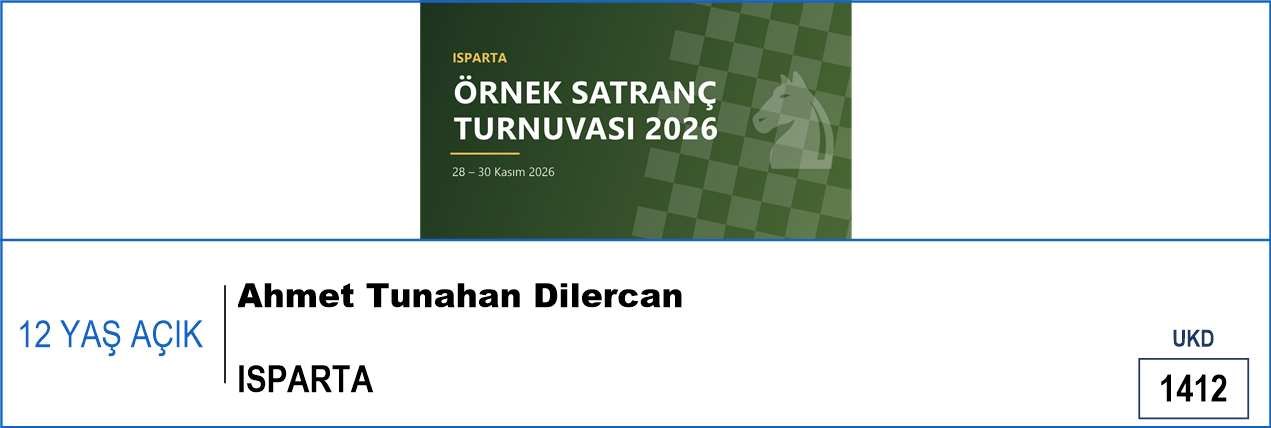
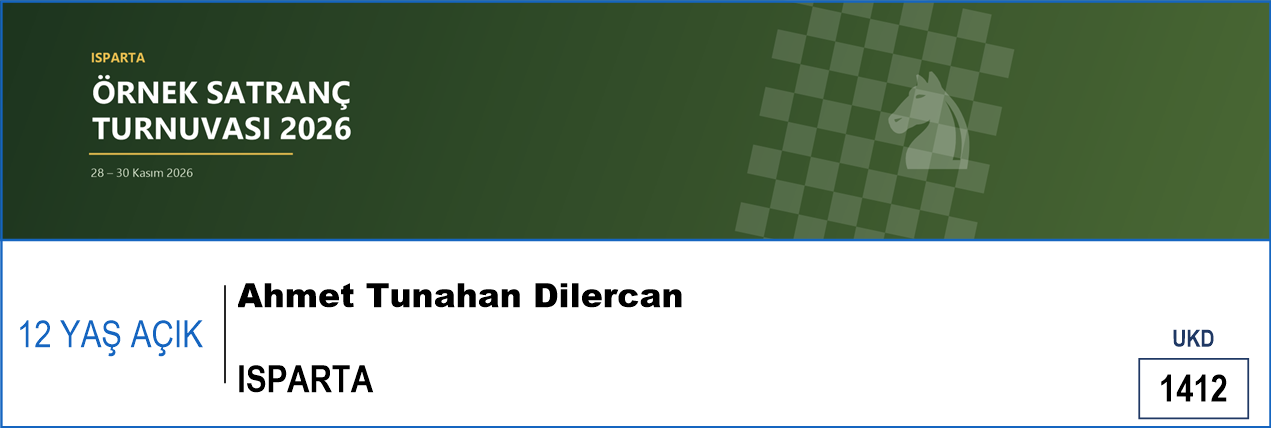
Download page: template designer view, larger gallery, sign samples
Scoresheet sample replaced by the template designer screenshot; gallery cards
are larger and never cropped, the name plate spans two columns with a
strip-shaped banner; hall sign and no-entry sign samples added.

Claude-Session: https://claude.ai/code/session_01DQJQJNc1bC6K3f4wb6bKDb

diff --git a/docs/index.html b/docs/index.html
@@ -120,17 +120,21 @@
 
   .split { display: grid; gap: 32px; align-items: center; }
   @media (min-width: 860px) { .split { grid-template-columns: 6fr 5fr; } }
-  .split .paper { max-width: 440px; justify-self: center; }
+  .split .paper { width: 100%; max-width: 560px; justify-self: center; }
   ul.points { margin: 0; padding: 0; list-style: none; }
   ul.points li { position: relative; padding-left: 26px; margin-bottom: 12px; }
   ul.points li::before { content: ""; position: absolute; left: 0; top: .55em; width: 12px; height: 12px; border-radius: 3px; background: var(--brand); }
 
   /* Örnek çıktılar: tek ekranda galeri */
-  .gallery { display: grid; gap: 18px; grid-template-columns: repeat(auto-fill, minmax(290px, 1fr)); }
-  .gallery figure { margin: 0; background: var(--surface); border: 1px solid var(--line); border-radius: 12px; padding: 12px; display: flex; flex-direction: column; }
-  .gallery button { all: unset; cursor: zoom-in; display: flex; align-items: center; justify-content: center; height: 240px;
-                    background: #fff; border-radius: 6px; overflow: hidden; border: 1px solid var(--line); }
-  .gallery button img { max-height: 228px; width: auto; max-width: 96%; object-fit: contain; }
+  .gallery { display: grid; gap: 20px; grid-template-columns: repeat(auto-fill, minmax(320px, 1fr)); }
+  .gallery figure { margin: 0; background: var(--surface); border: 1px solid var(--line); border-radius: 12px; padding: 14px; display: flex; flex-direction: column; }
+  .gallery figure.wide { grid-column: span 2; }
+  @media (max-width: 720px) { .gallery figure.wide { grid-column: auto; } }
+  .gallery button { all: unset; cursor: zoom-in; display: flex; align-items: center; justify-content: center; height: 340px;
+                    background: #fff; border-radius: 6px; border: 1px solid var(--line); padding: 10px; box-sizing: border-box; }
+  .gallery figure.wide button { height: auto; min-height: 200px; }
+  .gallery button img { display: block; max-width: 100%; max-height: 100%; width: auto; height: auto; object-fit: contain; }
+  .gallery figure.wide button img { width: 100%; max-height: none; }
   .gallery figcaption { font-size: 14px; margin-top: 10px; }
   .gallery figcaption b { display: block; font-size: 15px; }
   .gallery figcaption span { color: var(--muted); }
@@ -199,7 +203,7 @@
       <div class="card"><h3>Hakem eşleştirme kağıtları</h3><p>Büyük yazılı, sonuç kutulu kağıtlar; isteğe bağlı ceza bildirim formuyla aynı sayfada.</p></div>
       <div class="card"><h3>Salon listeleri</h3><p>Her kategorinin eşleştirme, sonuç ve sıralama listeleri pano için A4'e hazırlanır.</p></div>
       <div class="card"><h3>Yaka kartı ve isimlik</h3><p>Sporcu, hakem ve görevli kartları. Her kategori kendi renginde; UKD ve ELO bilgisiyle.</p></div>
-      <div class="card"><h3>Kategori masa kartları</h3><p>Turnuva afişi ve büyük kategori adıyla A4 masa kartları. Renkler yaka kartlarıyla ortaktır.</p></div>
+      <div class="card"><h3>Masa kartları ve salon levhaları</h3><p>Afişli kategori masa kartları; inceleme masası, kayıt kontrol, WC, sporcu girişi-çıkışı ve yönerge levhaları yön oklarıyla; yasak levhası.</p></div>
       <div class="card"><h3>Yönerge, rapor ve tutanaklar</h3><p>Turnuva bilgileriyle doldurulan hazır şablonlar; PDF, yazıcı ya da Word çıktısı.</p></div>
     </div>
   </section>
@@ -208,7 +212,7 @@
     <div class="split">
       <div>
         <h2>Hazır basılı kâğıda tam yerleşim</h2>
-        <p class="sub">Programın temel işi: her masanın notasyon kâğıdını, elle yazmaya gerek bırakmadan doldurmak.</p>
+        <p class="sub">Programın temel işi: her masanın notasyon kâğıdını, elle yazmaya gerek bırakmadan doldurmak. Bilgilerin kâğıdın hangi kutusuna yazılacağı şablon tasarımcısında görülür ve ayarlanır.</p>
         <ul class="points">
           <li>Turnuva adı, tarih, kategori, tur ve masa numarası ile iki oyuncunun adı, ratingi ve ili tek seferde basılır.</li>
           <li>Hazır şablonlar yaygın kullanılan A5 notasyon kâğıtlarına göre ayarlıdır.</li>
@@ -217,8 +221,8 @@
           <li>Seçilen masalar, bütün kategori ya da bütün tur tek tıkla basılır.</li>
         </ul>
       </div>
-      <img class="paper shot" src="images/sample-scoresheet.jpg" width="932" height="1322" loading="lazy"
-           alt="Doldurulmuş notasyon kâğıdı: Örnek Satranç Turnuvası 2026, 3. tur, 2. masa, Ahmet Tunahan Dilercan – Defne Arslan">
+      <img class="paper shot" src="images/template-designer-a5.png" width="742" height="687" loading="lazy"
+           alt="Hazır kâğıt şablonu tasarımcısı: A5 notasyon kâğıdında turnuva adı, tarih, kategori, tur, masa, oyuncu adları, rating ve il alanları">
     </div>
   </section>
 
@@ -230,13 +234,21 @@
         <button type="button" data-full="images/sample-athlete-badge.png" aria-label="Sporcu yaka kartını büyüt"><img src="images/sample-athlete-badge.png" width="635" height="903" loading="lazy" alt="Sporcu yaka kartı: turnuva afişi, sporcu adı, kategori ve il"></button>
         <figcaption><b>Sporcu yaka kartı</b><span>95×135 mm, A4'e dört kart. Çerçeve kategori renginde.</span></figcaption>
       </figure>
-      <figure>
-        <button type="button" data-full="images/sample-name-plate.png" aria-label="Masa isimliğini büyüt"><img src="images/sample-name-plate.png" width="1271" height="428" loading="lazy" alt="Masa isimliği: kategori, sporcu adı, il ve UKD 1412"></button>
-        <figcaption><b>Masa isimliği</b><span>190 mm genişlik; UKD ve ELO kutularıyla.</span></figcaption>
+      <figure class="wide">
+        <button type="button" data-full="images/sample-name-plate.png" aria-label="Masa isimliğini büyüt"><img src="images/sample-name-plate.png" width="1271" height="428" loading="lazy" alt="Masa isimliği: üstte turnuva şeridi, kategori, sporcu adı, il ve UKD 1412"></button>
+        <figcaption><b>Masa isimliği</b><span>190 mm genişlik; üstte şerit oranında kırpılmış afiş, UKD ve ELO kutuları.</span></figcaption>
       </figure>
       <figure>
         <button type="button" data-full="images/sample-table-card.jpg" aria-label="Kategori masa kartını büyüt"><img src="images/sample-table-card.jpg" width="1286" height="909" loading="lazy" alt="Kategori masa kartı: turnuva afişi ve 12 YAŞ AÇIK yazısı"></button>
         <figcaption><b>Kategori masa kartı</b><span>A4 yatay; afiş ve büyük kategori adı.</span></figcaption>
+      </figure>
+      <figure>
+        <button type="button" data-full="images/sample-hall-sign.jpg" aria-label="Salon levhasını büyüt"><img src="images/sample-hall-sign.jpg" width="1286" height="909" loading="lazy" alt="Salon levhası: KAYIT KONTROL yazısı ve sağı gösteren ok"></button>
+        <figcaption><b>Salon levhası</b><span>Siyah büyük yazı ve yön oku; oku her levhada seçebilirsiniz.</span></figcaption>
+      </figure>
+      <figure>
+        <button type="button" data-full="images/sample-ban-sign.jpg" aria-label="Yasak levhasını büyüt"><img src="images/sample-ban-sign.jpg" width="1286" height="909" loading="lazy" alt="Yasak levhası: sigara, cep telefonu, elektronik cihaz ve yiyecek-içecek yasak simgeleri"></button>
+        <figcaption><b>Yasak levhası</b><span>Sigara, cep telefonu, elektronik cihaz, yiyecek-içecek.</span></figcaption>
       </figure>
       <figure>
         <button type="button" data-full="images/sample-pairings.png" aria-label="Eşleştirme listesini büyüt"><img src="images/sample-pairings.png" width="909" height="1286" loading="lazy" alt="3. tur eşleştirme listesi"></button>

diff --git a/tests/AppTests/SiteImagesTests.cs b/tests/AppTests/SiteImagesTests.cs
@@ -55,45 +55,22 @@ public class SiteImagesTests
             var poster = Path.Combine(work, "afis.png");
             using (var bmp = Poster(1800, 1000)) bmp.Save(poster, ImageFormat.Png);
 
-            Scoresheet(work, OverlayDefaults.TsfName, Path.Combine(dir, "sample-scoresheet.png"));
             AthleteCards(poster, dir);
             TableCard(poster, Path.Combine(dir, "sample-table-card.jpg"));
+            Signs(poster, dir);
             Lists(dir);
         }
         finally { try { Directory.Delete(work, true); } catch { } }
-    }
-
-    // ---------------- Notasyon kâğıdı: varsayılan şablon + basılı kâğıdın görüntüsü
-    private static void Scoresheet(string work, string template, string outPath)
-    {
-        var cfg = new AppConfig();
-        OverlayDefaults.EnsureDefaults(cfg, work);
-        var tpl = cfg.Templates.First(t => t.Name == template);
-        var t = Round3(false);
-        var pairing = t.Pairings[1] with { Category = "12 Yaş" };   // 2. masa; kâğıda kısa kategori adı basılır
-        var sheet = OverlayLayout.SheetRects(1, "A5")[0];
-        const float dpi = 160;
-        using var page = new Bitmap((int)(sheet.Width / 72 * dpi), (int)(sheet.Height / 72 * dpi));
-        page.SetResolution(dpi, dpi);
-        using (var g = Graphics.FromImage(page))
-        {
-            g.Clear(Color.White);
-            g.PageUnit = GraphicsUnit.Point;
-            g.SmoothingMode = SmoothingMode.AntiAlias;
-            g.TextRenderingHint = TextRenderingHint.AntiAlias;
-            g.InterpolationMode = InterpolationMode.HighQualityBicubic;
-            if (tpl.BackgroundImagePath is { } bgPath && File.Exists(bgPath))
-                using (var bg = Image.FromFile(bgPath)) g.DrawImage(bg, sheet.X, sheet.Y, sheet.Width, sheet.Height);
-            foreach (var placed in OverlayLayout.Place(tpl, t, pairing, sheet)) SheetPrinter.DrawPlaced(g, placed);
-        }
-        page.Save(outPath, ImageFormat.Png);
     }
 
     // ---------------- Sporcu yaka kartı ve isimlik (kategori rengiyle)
     private static void AthleteCards(string poster, string dir)
     {
         using var banner = Image.FromFile(poster);
-        var images = new AthleteImages(banner, banner, null, null);
+        // isimlik şeridi: programdaki "Afişten kırp" gibi şerit oranında (≈ 5,3:1) ayrı görsel
+        var plateCfg0 = new AthleteCardConfig { Kind = AthleteCardConfig.Plate };
+        using var strip = Poster(2120, (int)(2120 / AthleteSheetPrinter.PlateStripAspect(plateCfg0)));
+        var images = new AthleteImages(banner, strip, null, null);
         var a = new Athlete("Ahmet Tunahan Dilercan", Category, "ISPARTA", null, 1412);
         const string color = "#1565C0";
 
@@ -129,6 +106,18 @@ public class SiteImagesTests
         using var p = new CardPrinter(new[] { new CardSpec("12 YAŞ AÇIK", ColorTranslator.FromHtml("#1565C0"), 1) }, poster, Event,
                                       landscape: true, branding: CardBranding.None);
         SavePage(p, 0, 110, outPath, ImageFormat.Jpeg);
+    }
+
+    // ---------------- Salon levhası (oklu) ve yasak levhası
+    private static void Signs(string poster, string dir)
+    {
+        using var p = new CardPrinter(new[]
+        {
+            new CardSpec("KAYIT KONTROL", CardSigns.Ink, 1, CardKind.Sign, CardArrow.Right),
+            new CardSpec("YASAK LEVHASI", CardSigns.Ink, 1, CardKind.Ban),
+        }, poster, Event, landscape: true, branding: CardBranding.None);
+        SavePage(p, 0, 110, Path.Combine(dir, "sample-hall-sign.jpg"), ImageFormat.Jpeg);
+        SavePage(p, 1, 110, Path.Combine(dir, "sample-ban-sign.jpg"), ImageFormat.Jpeg);
     }
 
     // ---------------- Eşleştirme, sonuç ve sıralama listesi; hakem kağıdı ve ceza bildirim formu
